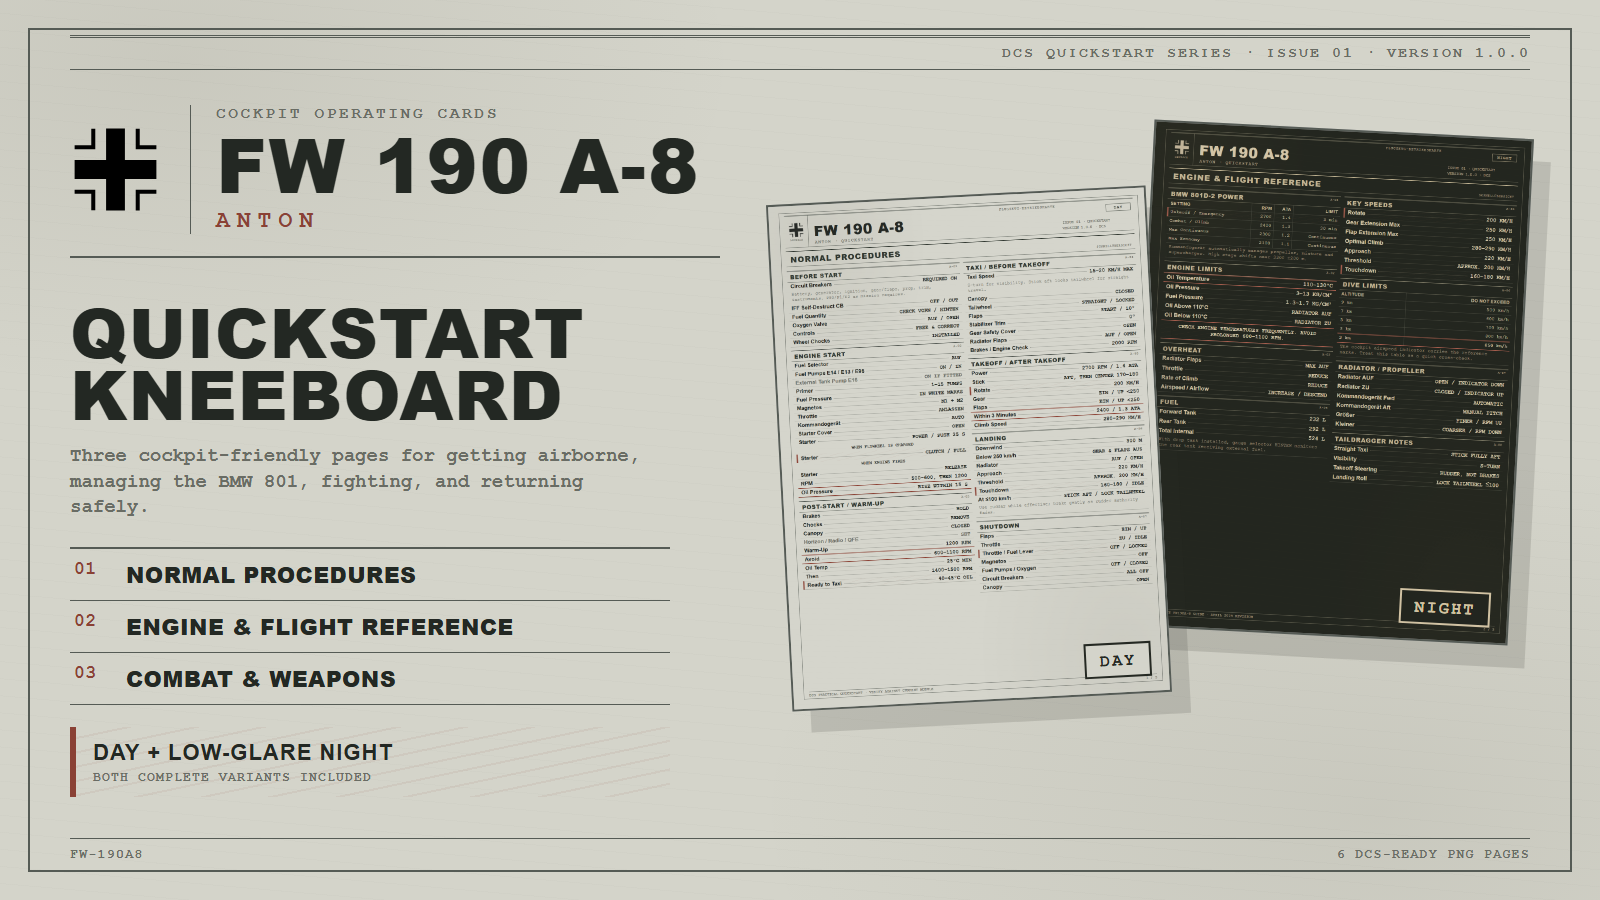
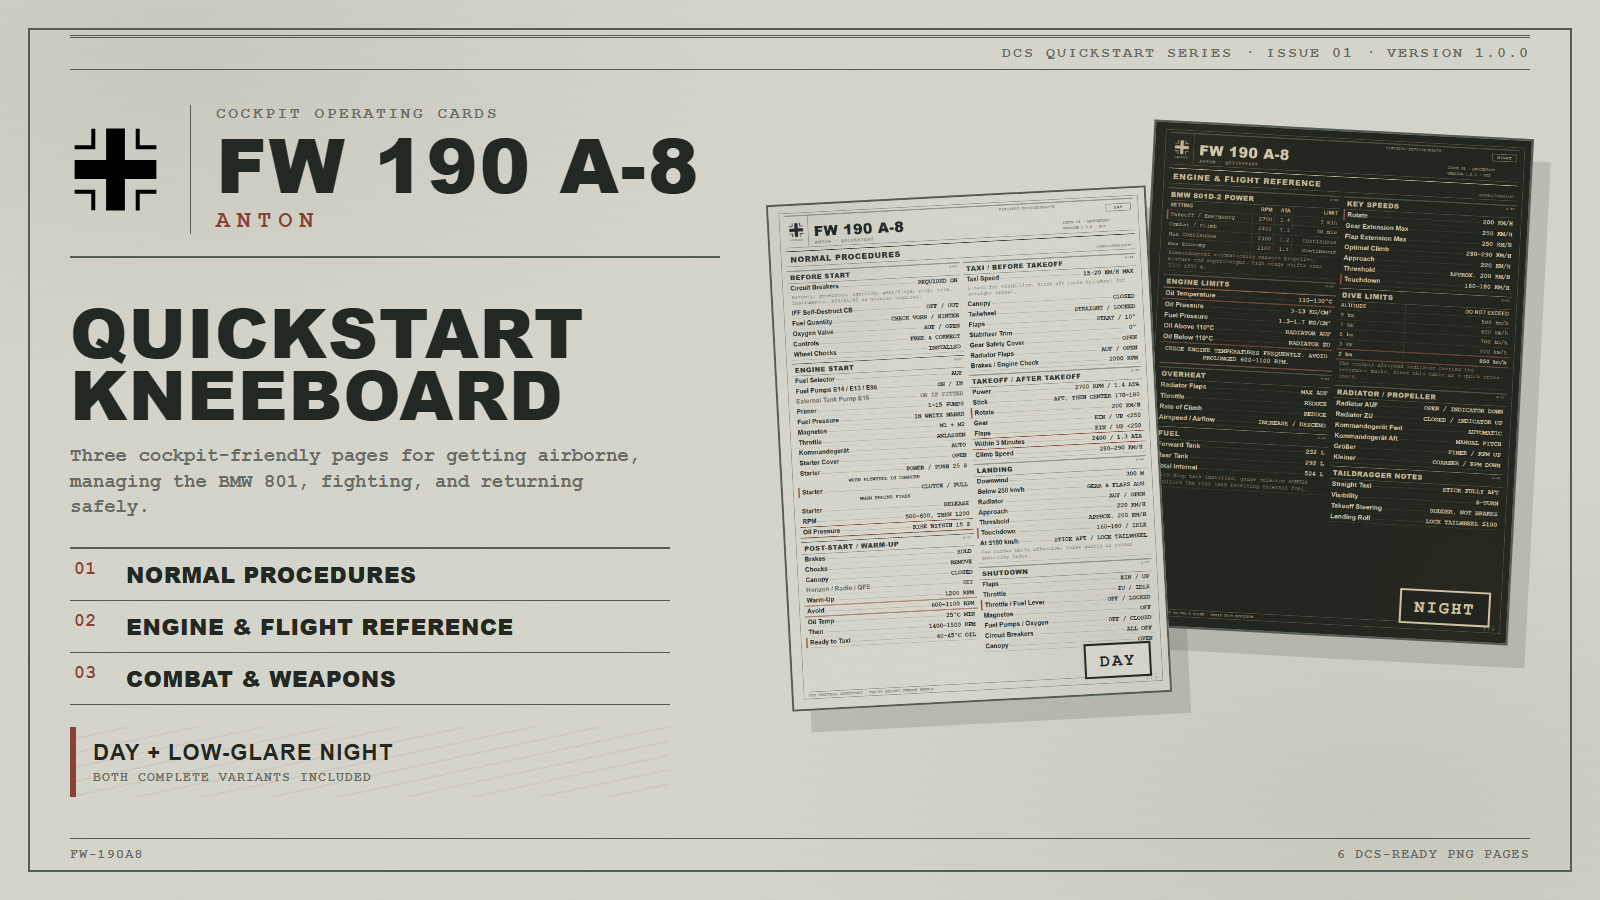
Improve Fw 190 in-game readability

Changed region(s): [[0.4688, 0.2178, 0.9688, 0.7156]]

diff --git a/examples/fw190-a8/source/kneeboard.css b/examples/fw190-a8/source/kneeboard.css
@@ -214,7 +214,7 @@ body {
   border-bottom: 1px solid var(--rule);
   color: var(--stamp);
   font-family: "Arial Narrow", "Franklin Gothic Medium", Arial, sans-serif;
-  font-size: 19px;
+  font-size: 22px;
   font-weight: 800;
   letter-spacing: 1.15px;
   text-align: left;
@@ -238,10 +238,10 @@ body {
   display: grid;
   grid-template-columns: auto minmax(20px, 1fr) auto;
   align-items: baseline;
-  gap: 7px;
-  min-height: 30px;
-  padding: 3px 9px 2px;
-  font-size: 18px;
+  gap: 4px;
+  min-height: 34px;
+  padding: 4px 8px 3px;
+  font-size: 21px;
   line-height: 1.14;
 }
 
@@ -255,10 +255,10 @@ body {
 }
 
 .kb-value {
-  max-width: 270px;
+  max-width: 310px;
   padding: 0 2px;
   font-weight: 700;
-  letter-spacing: -.35px;
+  letter-spacing: -.65px;
   text-align: right;
   text-transform: uppercase;
 }
@@ -273,7 +273,7 @@ body {
   margin: 0;
   padding: 3px 11px 6px;
   color: var(--muted);
-  font-size: 15px;
+  font-size: 17px;
   font-weight: 400;
   line-height: 1.2;
   text-align: left;
@@ -316,13 +316,13 @@ body {
 .kb-table {
   width: 100%;
   border-collapse: collapse;
-  font-size: 15px;
+  font-size: 18px;
 }
 
 .kb-table th {
   color: var(--stamp);
   font-family: "Arial Narrow", Arial, sans-serif;
-  font-size: 14px;
+  font-size: 16px;
   letter-spacing: .5px;
   text-transform: uppercase;
 }
@@ -346,7 +346,7 @@ body {
   border-top: 2px solid var(--mark);
   border-bottom: 2px solid var(--mark);
   background: repeating-linear-gradient(-12deg, transparent 0 12px, var(--mark-soft) 12px 13px);
-  font-size: 17px;
+  font-size: 20px;
   font-weight: 700;
   line-height: 1.2;
   text-align: center;
@@ -358,7 +358,7 @@ body {
   border-top: 1px dashed var(--rule);
   border-bottom: 1px dashed var(--rule);
   color: var(--muted);
-  font-size: 15px;
+  font-size: 17px;
   line-height: 1.25;
   text-align: center;
 }
@@ -369,7 +369,7 @@ body {
   align-items: center;
   gap: 8px;
   padding: 10px;
-  font-size: 16px;
+  font-size: 18px;
   font-weight: 700;
   text-align: center;
 }
@@ -398,7 +398,7 @@ body {
   text-transform: uppercase;
 }
 
-.compact .kb-row { min-height: 27px; font-size: 17px; }
+.compact .kb-row { min-height: 32px; font-size: 20px; }
 .compact .kb-note,
-.compact .kb-condition { font-size: 14px; }
-.compact .kb-section-title { font-size: 18px; }
+.compact .kb-condition { font-size: 16px; }
+.compact .kb-section-title { font-size: 21px; }

diff --git a/examples/fw190-a8/README.md b/examples/fw190-a8/README.md
@@ -60,6 +60,11 @@ The HTML files are intentionally static and explicit so authors can inspect
 the semantic class usage without first learning a build tool. Open any HTML
 file in a browser at a `1200 x 1600` viewport to reproduce its kneeboard page.
 
+The final typography was revised after an in-game DCS test. Body rows, notes,
+tables, and section headings were enlarged while retaining the original
+three-page structure. This is an example of cockpit testing overriding an
+otherwise acceptable full-resolution render.
+
 ## Representative pages
 
 ### Day
